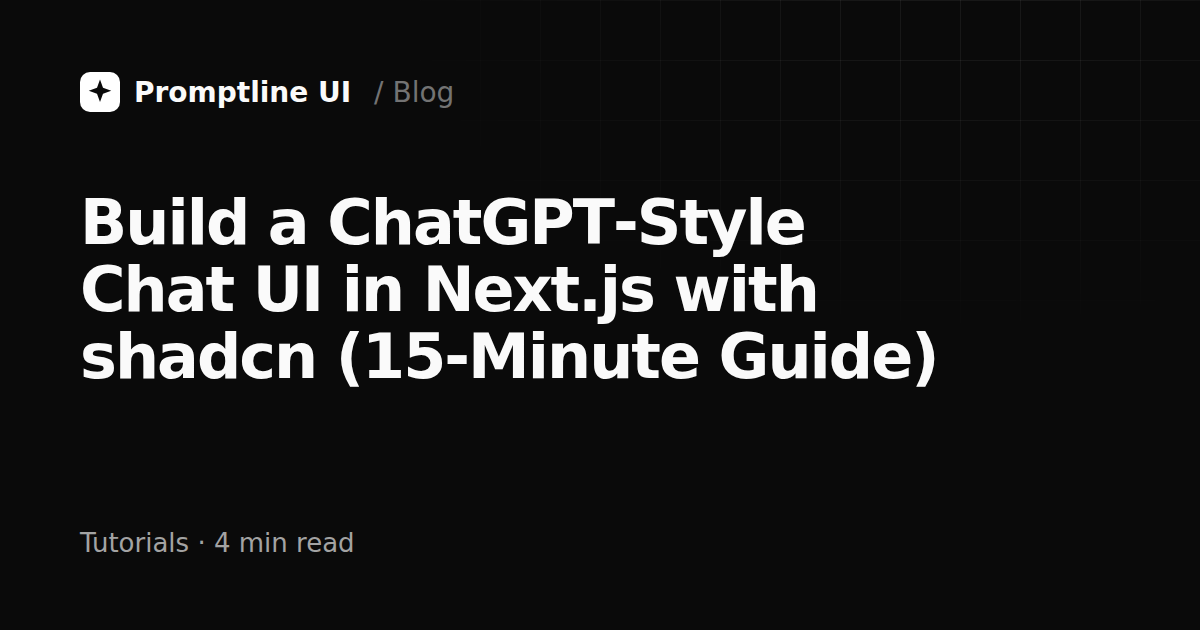
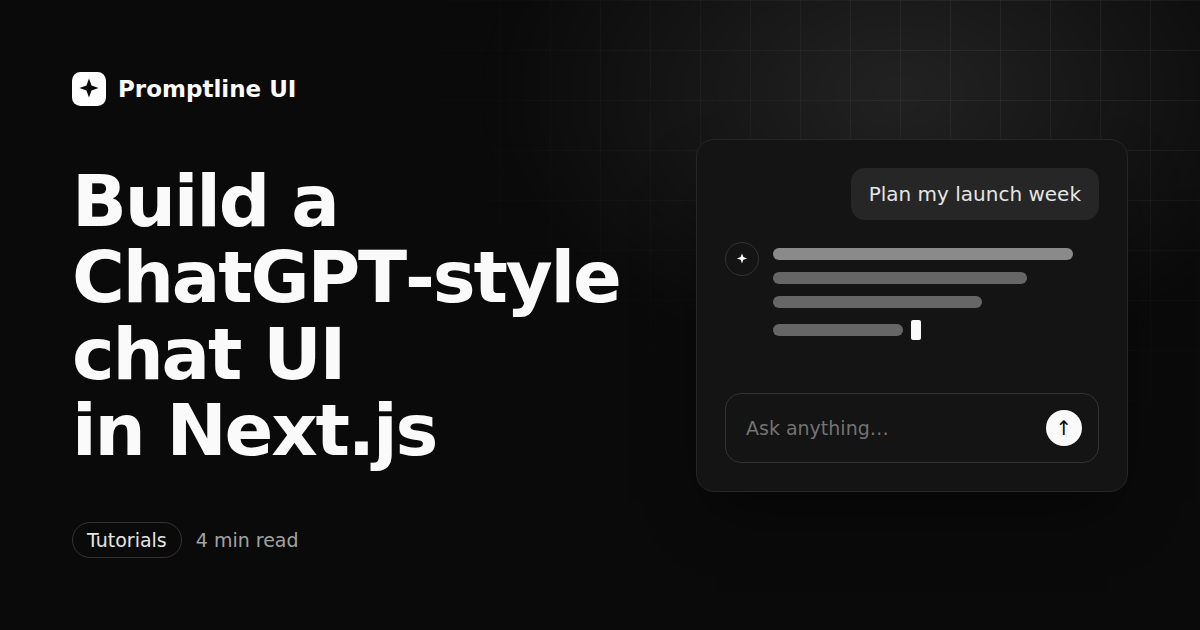
Blog cover images with auto-fitted titles and image SEO
- scripts/covers.mjs renders a 1600×900 WebP cover and a 1200×630 share
  image per post. The title is auto-fitted (long titles shrink, short
  ones grow) next to a topic illustration (chat, code, compare, patterns).
  Optional coverTitle / coverAlt / coverMotif in frontmatter.
- Covers on post pages (high fetch priority + preload for LCP) and on
  blog cards (lazy loaded), always with width/height and alt text.
- In-article images get real width/height from the file.
- BlogPosting structured data with ImageObject covers, og:image
  width/height/alt, twitter:image:alt, blogPost list on /blog, and image
  entries in the sitemap.

Claude-Session: https://claude.ai/code/session_01Le8gpddszzf32joXk36nMw

diff --git a/docs/pages/blog.tsx b/docs/pages/blog.tsx
@@ -27,15 +27,21 @@ function PostMeta({ post, className }: { post: Post; className?: string }) {
 
 function PostCard({ post, featured }: { post: Post; featured?: boolean }) {
   return (
-    <article className={cn("group relative flex flex-col rounded-2xl border border-border bg-bg p-6 transition-[border-color,box-shadow] hover:border-border-strong hover:shadow-sm", featured && "sm:p-10")}>
+    <article className={cn("group relative flex flex-col overflow-hidden rounded-2xl border border-border bg-bg transition-[border-color,box-shadow] hover:border-border-strong hover:shadow-sm", featured && "lg:grid lg:grid-cols-[1fr_1.1fr]")}>
+      {post.cover && (
+        <img src={post.cover.src} alt={post.cover.alt} width={post.cover.width} height={post.cover.height} loading={featured ? "eager" : "lazy"} decoding="async"
+          className={cn("aspect-video w-full border-b border-border bg-surface object-cover", featured && "lg:order-2 lg:my-6 lg:mr-6 lg:w-[calc(100%-1.5rem)] lg:self-center lg:rounded-xl lg:border")} />
+      )}
+      <div className={cn("flex flex-1 flex-col p-6", featured && "sm:p-10")}>
       <div className="flex items-center gap-3"><TopicPill id={post.topic} />{post.draft && <span className="text-xs font-medium text-warning">Draft</span>}</div>
-      <h2 className={cn("mt-4 text-balance font-semibold tracking-tight text-fg", featured ? "text-2xl sm:text-4xl sm:leading-[1.15]" : "text-lg")}>
+      <h2 className={cn("mt-4 text-balance font-semibold tracking-tight text-fg", featured ? "text-2xl sm:text-3xl sm:leading-[1.2]" : "text-lg")}>
         <a href={postHref(post)} className="after:absolute after:inset-0">{post.title}</a>
       </h2>
       <p className={cn("mt-3 text-fg-muted", featured ? "max-w-2xl text-lg" : "line-clamp-3 text-sm")}>{post.description}</p>
       <div className="mt-auto flex items-center justify-between pt-6">
         <PostMeta post={post} />
         <ArrowRight className="size-4 text-fg-subtle transition-transform group-hover:translate-x-0.5" />
+      </div>
       </div>
     </article>
   );
@@ -111,6 +117,13 @@ export function BlogPost({ post, toc }: { post: Post; toc?: React.ReactNode }) {
             {post.updated && post.updated !== post.date && <span className="text-sm text-fg-subtle">· Updated <time dateTime={post.updated}>{formatDate(post.updated)}</time></span>}
             {post.draft && <span className="rounded-full bg-warning/10 px-2 py-0.5 text-xs font-medium text-warning">Draft</span>}
           </div>
+
+          {post.cover && (
+            <figure className="mt-8">
+              <img src={post.cover.src} alt={post.cover.alt} width={post.cover.width} height={post.cover.height} fetchPriority="high" decoding="async"
+                className="aspect-video w-full rounded-2xl border border-border bg-surface object-cover" />
+            </figure>
+          )}
 
           {post.tldr.length > 0 && (
             <aside aria-label="Summary" className="mt-8 rounded-xl border border-border bg-surface p-5">

diff --git a/docs/blog.ts b/docs/blog.ts
@@ -8,6 +8,7 @@ export interface Post {
   slug: string; title: string; seoTitle?: string; description: string; date: string; updated?: string;
   topic: string; tags: string[]; tldr: string[]; faq: { q: string; a: string }[]; components: string[];
   draft: boolean; featured: boolean; readingTime: number; words: number;
+  coverTitle: string; cover: { src: string; width: number; height: number; alt: string } | null;
   headings: { id: string; text: string; depth: number }[]; segments: Segment[];
 }
 export interface Topic { id: string; name: string; description: string }

diff --git a/README.md b/README.md
@@ -42,3 +42,11 @@ MIT licensed. Designed by Suleman.
 The name, short name, registry namespace, default URL and author live in `brand.json`.
 Change them there, then also update the header comments in `src/styles/tokens.css` and
 `tailwind.preset.js`, regenerate `public/og.png`, and rename the repo / Vercel project.
+
+## Writing a blog post
+1. Add `content/blog/<slug>.md` with frontmatter: `title`, `description`, `date`, `topic`
+   (optional: `seoTitle`, `coverTitle`, `coverAlt`, `coverMotif` chat|code|compare|patterns,
+   `tldr`, `faq`, `components`, `draft`). Use `:::demo <component>/<Example>` for live demos.
+2. Generate the cover and share image: `node scripts/gen-blog.mjs && node scripts/covers.mjs <slug>`
+   (needs Playwright). Covers go to `public/blog/covers/`, share images to `public/og/blog/`.
+3. `npm run build` — the post gets its page, structured data, RSS entry and sitemap entry.

diff --git a/content/blog/chatgpt-style-chat-ui-nextjs.md b/content/blog/chatgpt-style-chat-ui-nextjs.md
@@ -6,6 +6,9 @@ date: 2026-09-27
 topic: tutorials
 tags: [nextjs, shadcn, chat ui, streaming, tailwind]
 featured: true
+coverTitle: Build a ChatGPT-style chat UI in Next.js
+coverAlt: Cover image for the guide "Build a ChatGPT-style chat UI in Next.js with shadcn", showing a chat window with a user message, a streamed reply and a prompt box.
+coverMotif: chat
 components: [prompt-input, conversation, message, streaming-text, suggestion, empty-state]
 tldr:
   - Create a Next.js app, run shadcn init, and add the {{brand.short}} registry to components.json.
